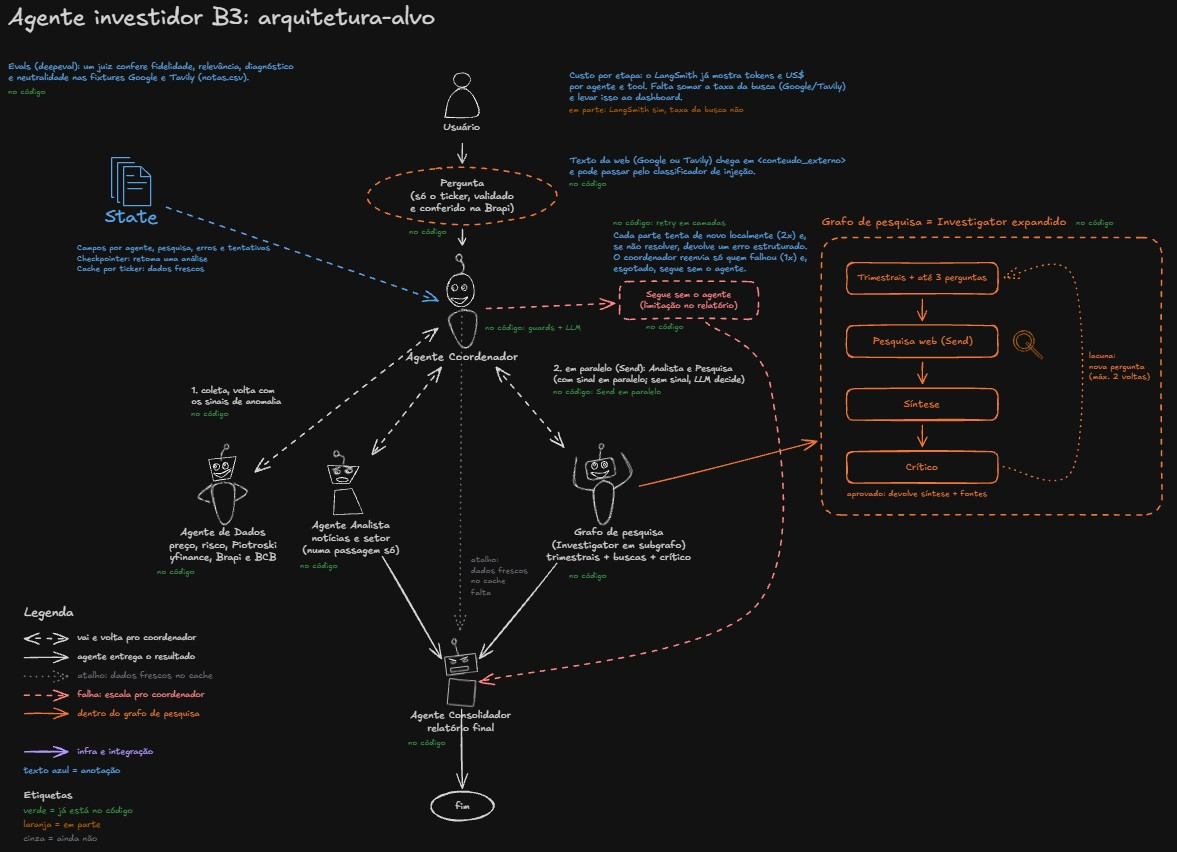
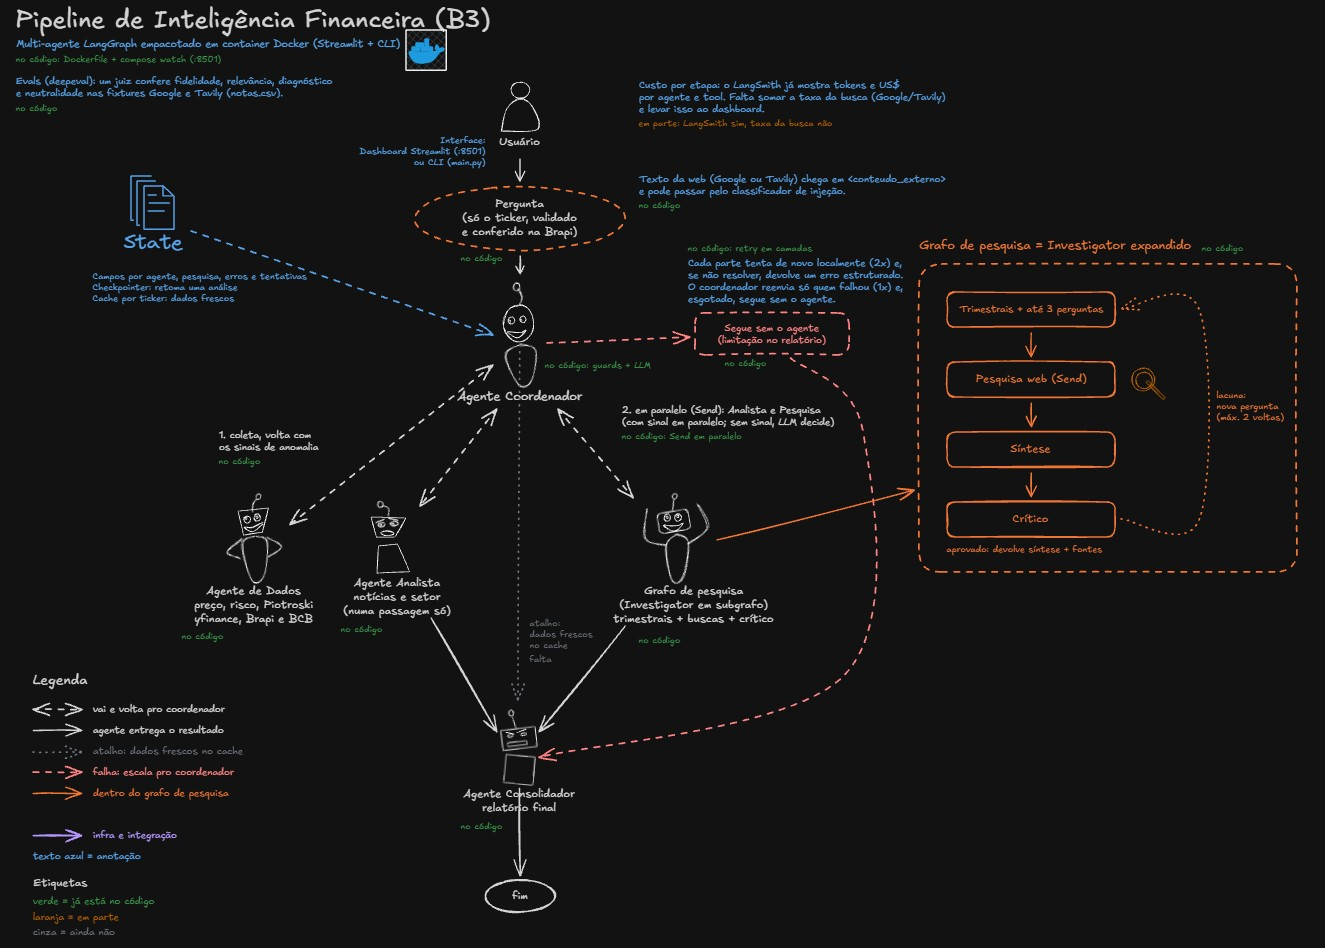
docs: atualiza imagem da arquitetura e README

diff --git a/README.md b/README.md
@@ -119,7 +119,7 @@ O Banco Central não pede chave. A busca no Google pelo Gemini só funciona com 
 make test    # 390 testes, tudo mockado, ~23 s
 ```
 
-A rede fica bloqueada nos testes pelo `pytest-socket`: um mock esquecido reprova o teste em vez de chamar uma API paga. A suíte já teve 564 testes e foi enxugada: saiu o que não protegia nenhuma regra (teste de código morto, a mesma regra testada em três camadas, variações de formatação).
+A rede fica bloqueada nos testes pelo `pytest-socket`: um mock esquecido reprova o teste em vez de chamar uma API paga.
 
 O e2e roda o grafo de verdade e falha se o caminho sair do esperado:
 
